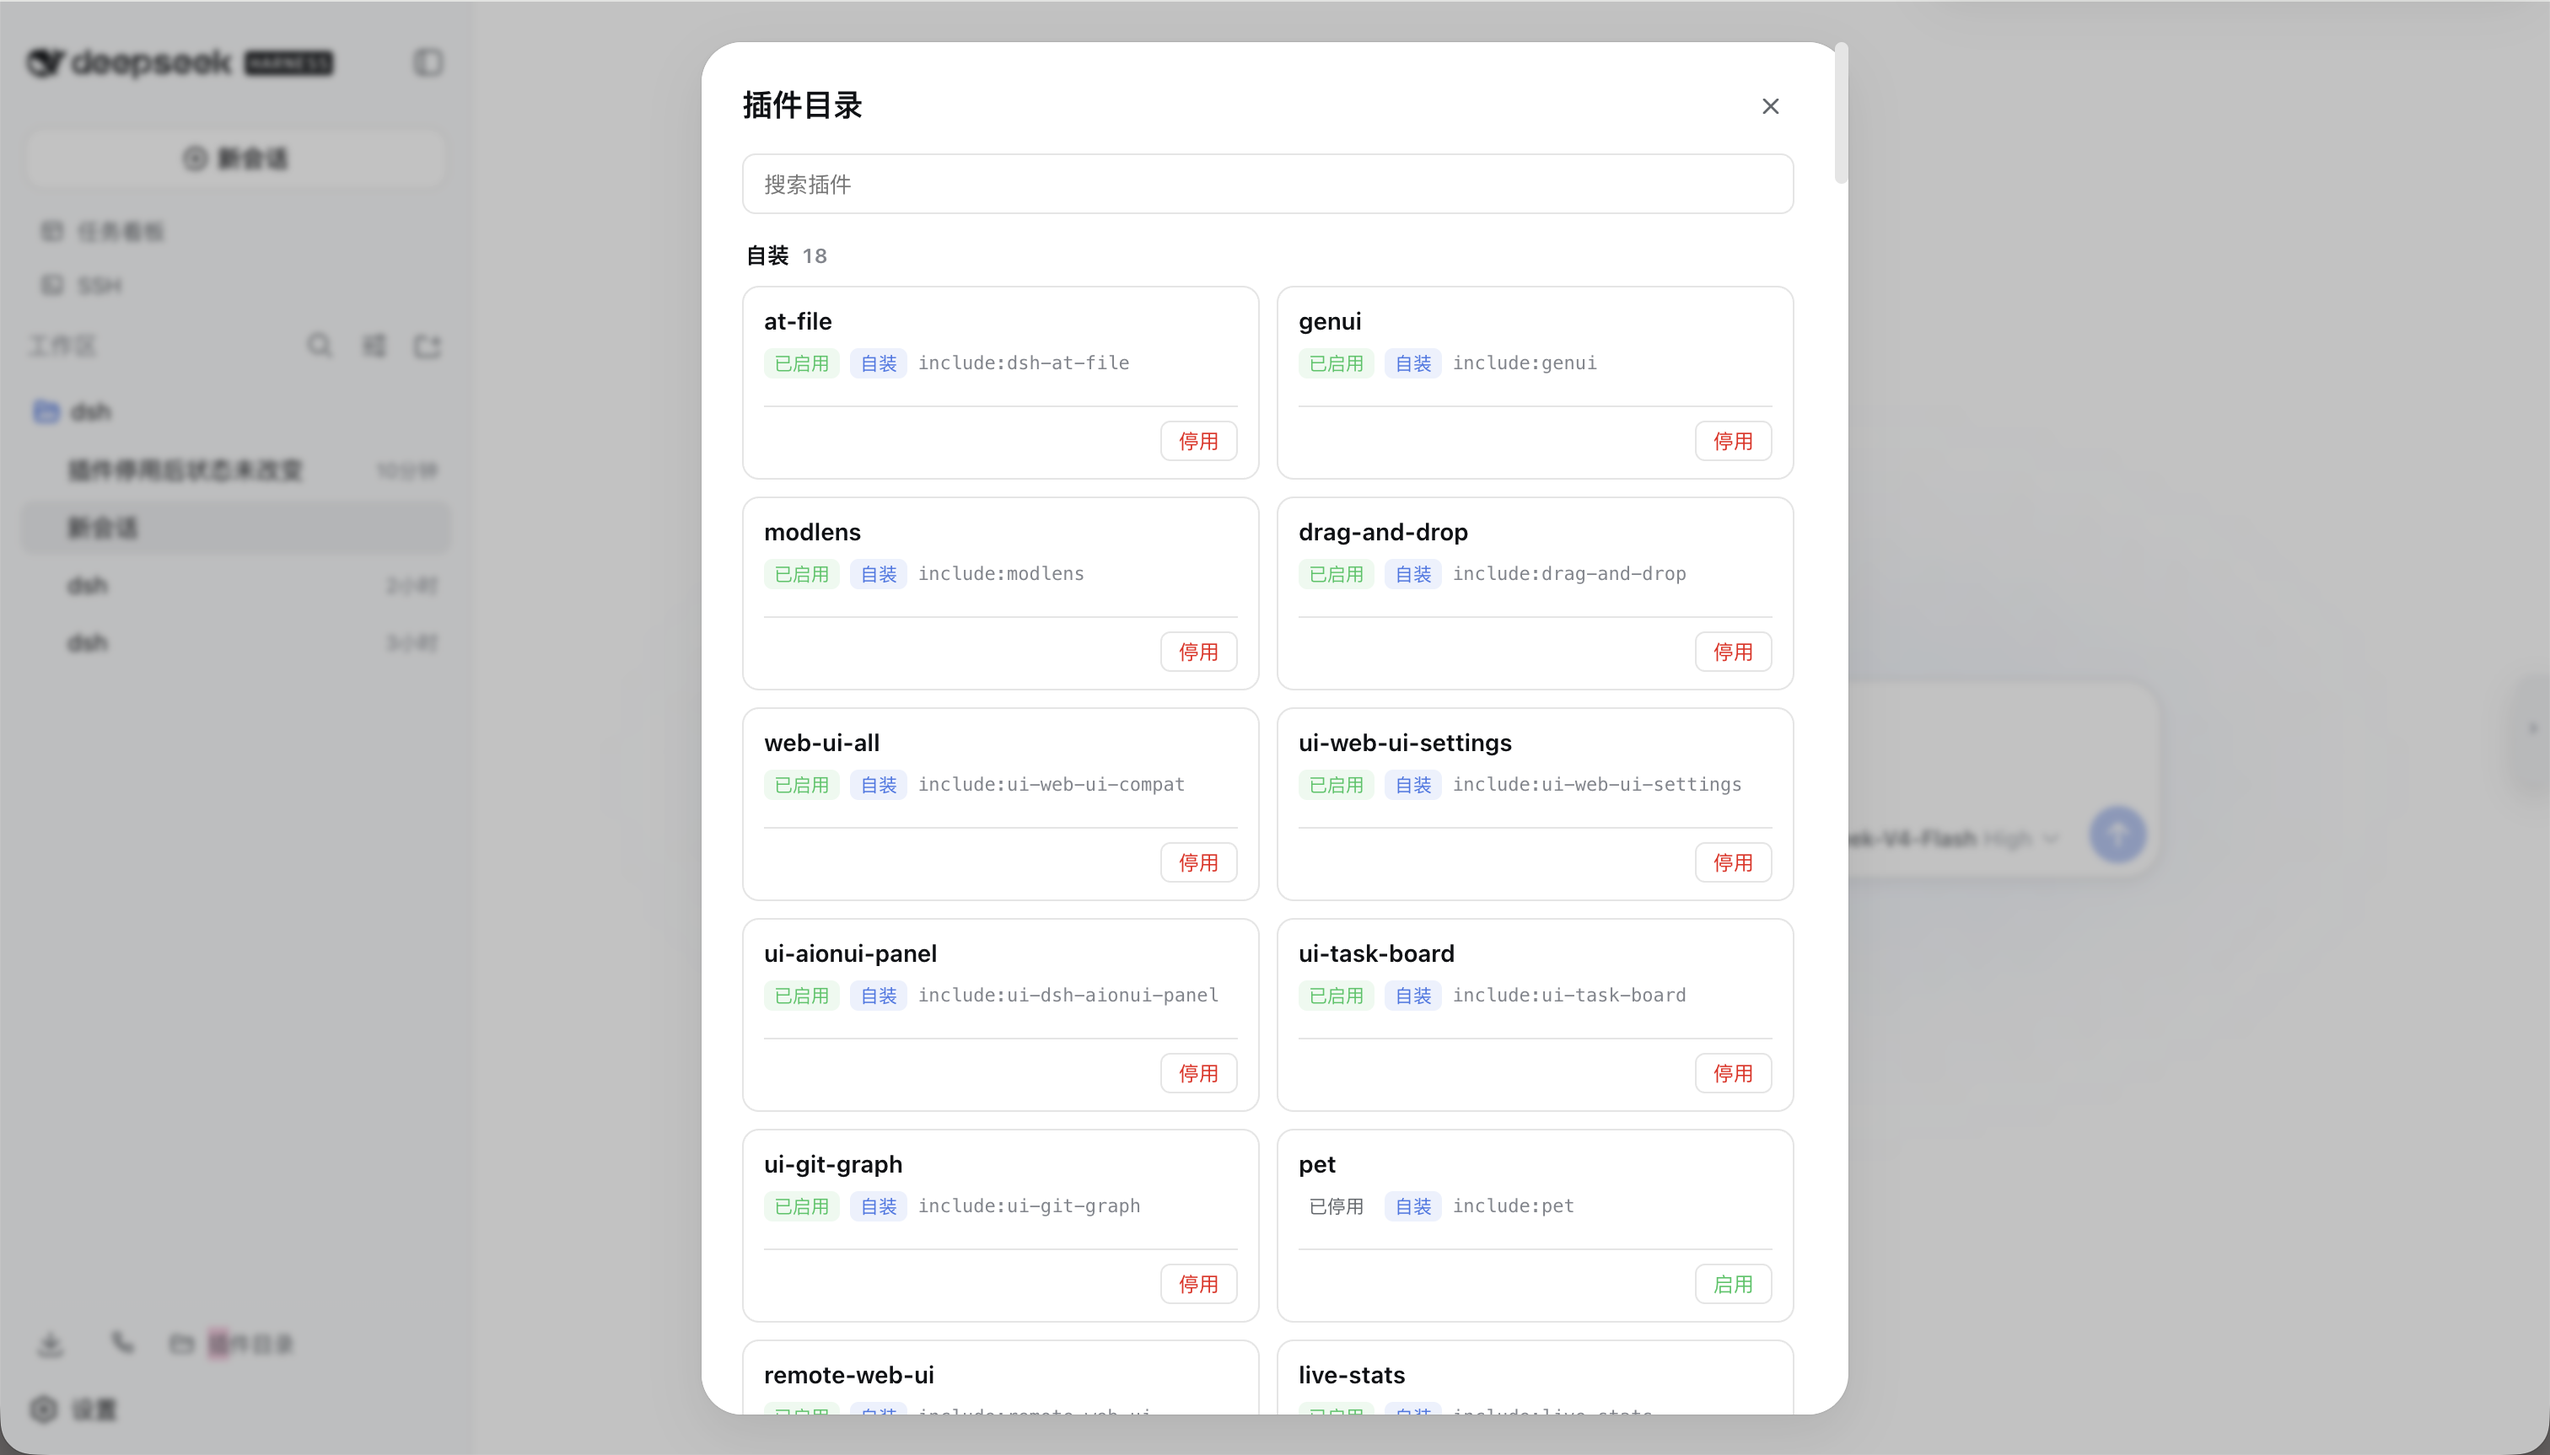
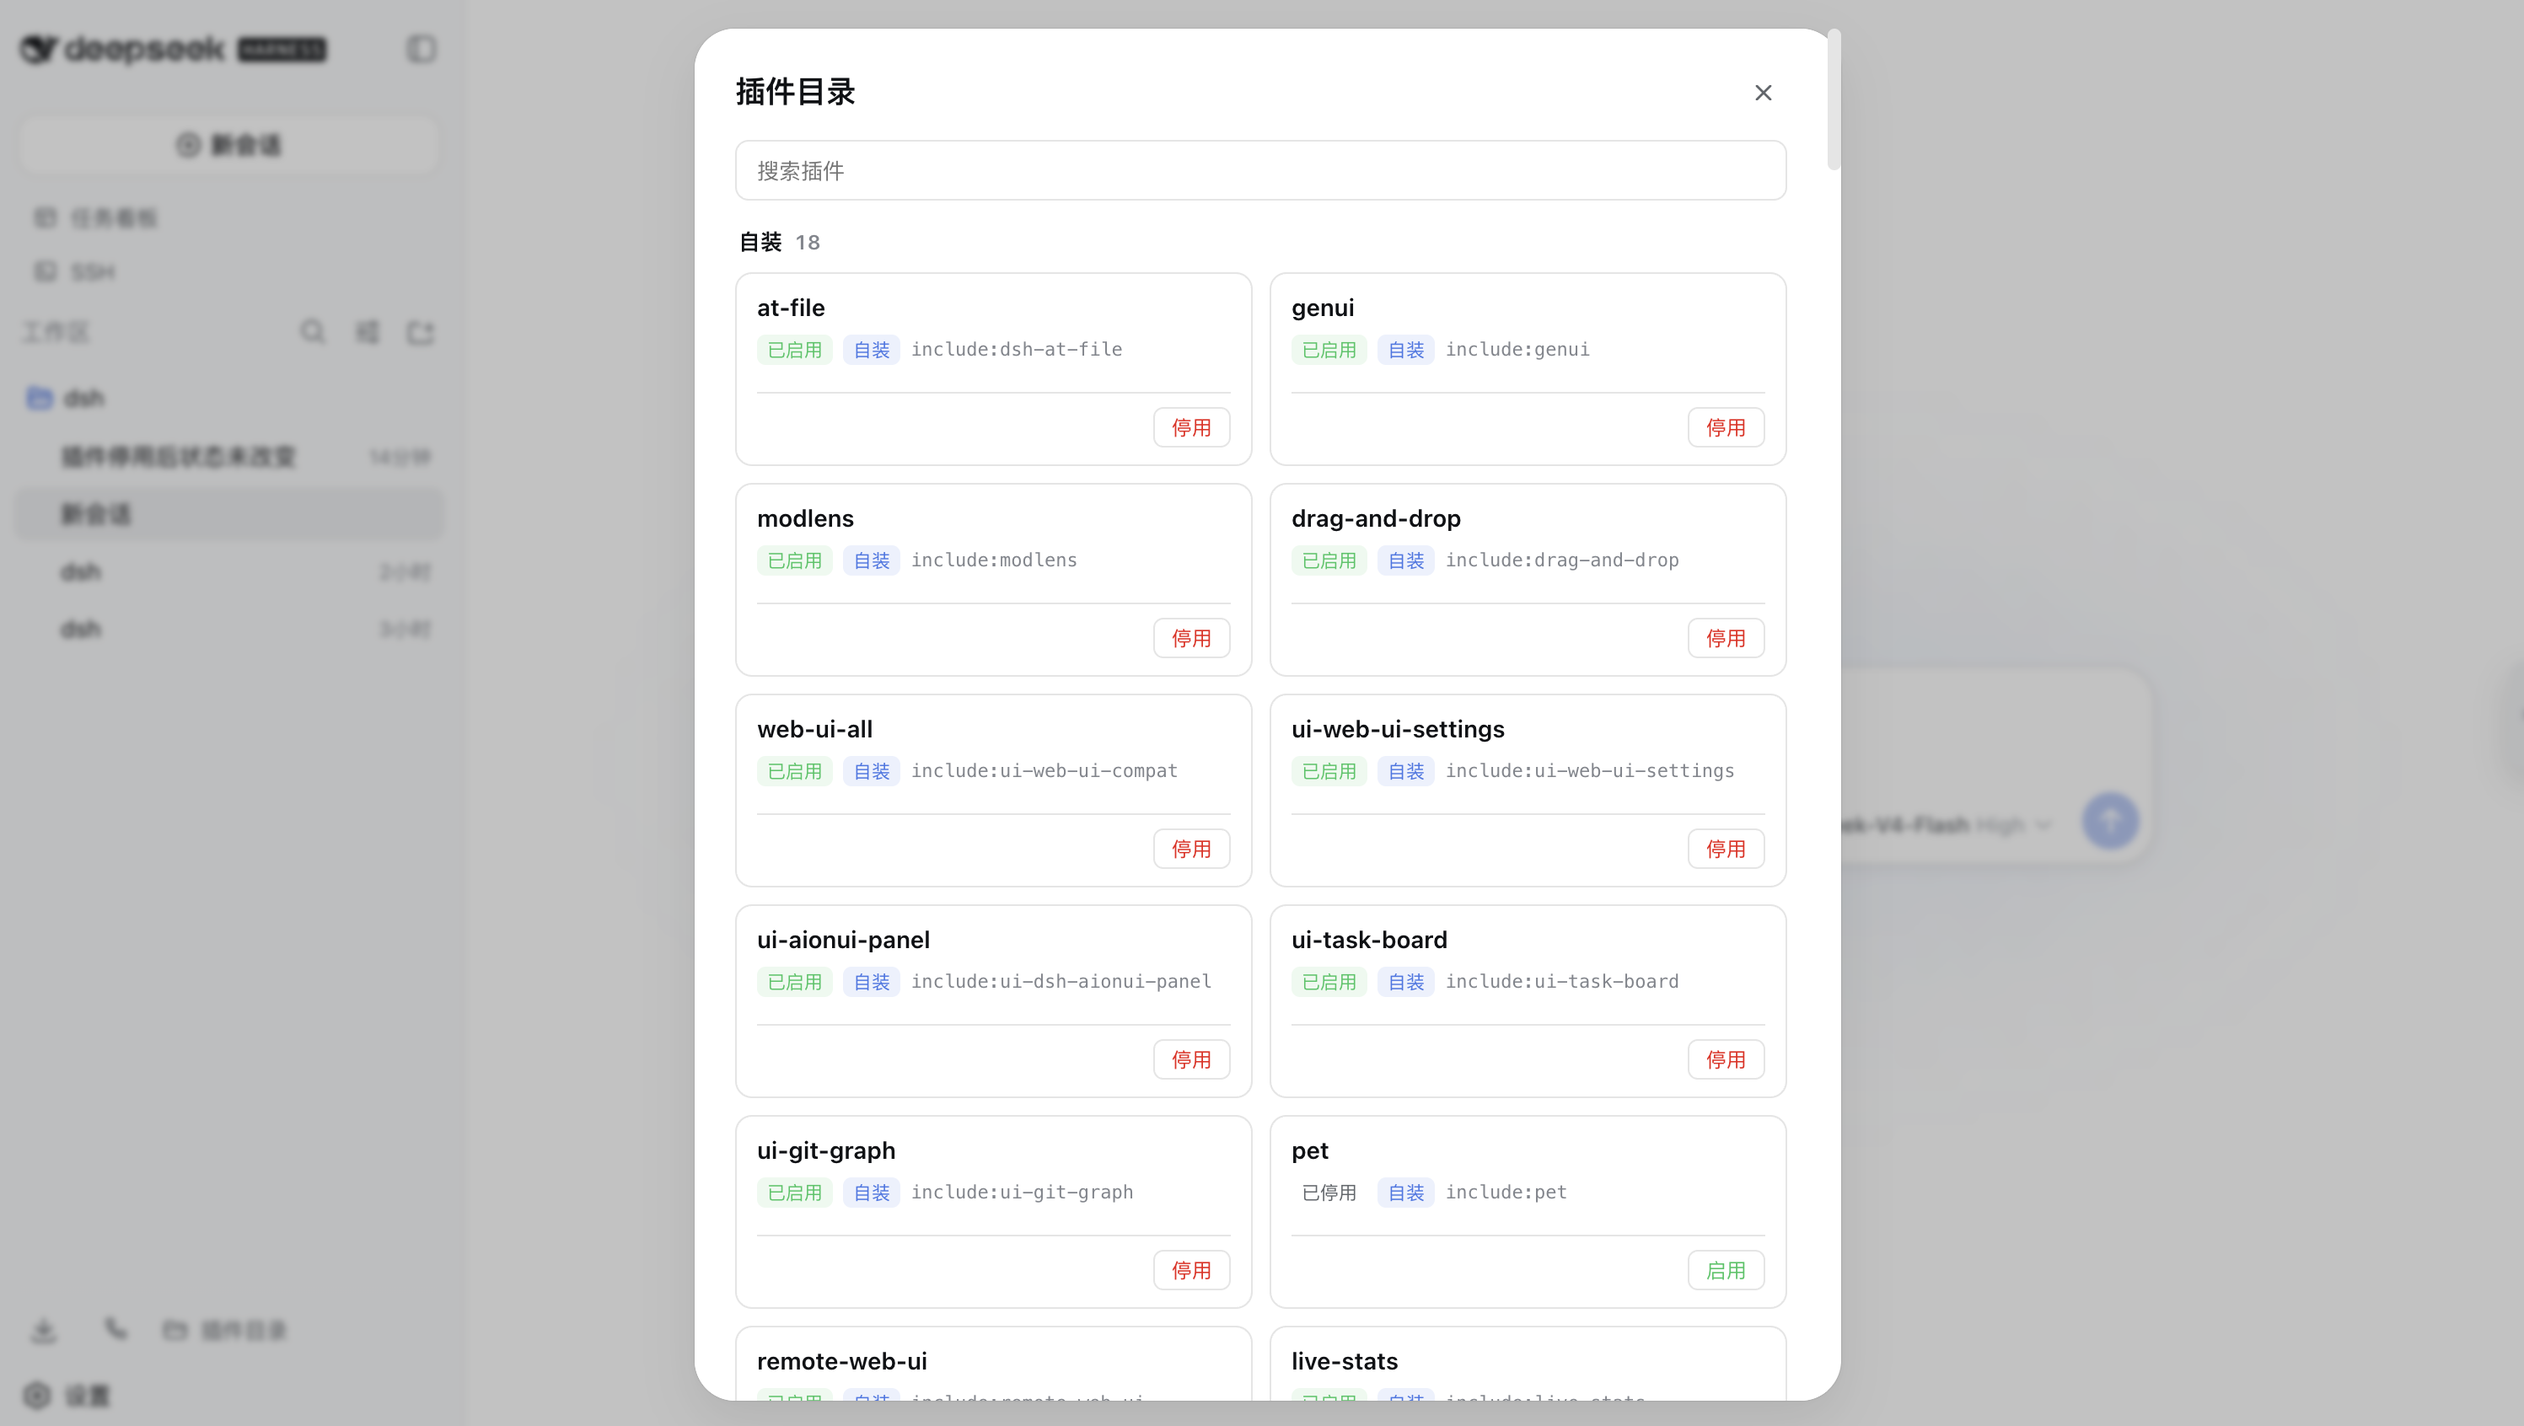
docs: use latest plugin catalog screenshot, add EN/ZH switcher

diff --git a/README.md b/README.md
@@ -1,5 +1,8 @@
 # dsh-plugin-Audit
 
+[![English](https://img.shields.io/badge/English-blue?style=flat-square)](README.md) [![简体中文](https://img.shields.io/badge/简体中文-red?style=flat-square)](README.zh.md)
+
+
 A [DeepSeek Harness](https://github.com/deepseek-ai/deepseek-harness) (DSH)
 plugin-management enhancement: group the plugin list by source so you can tell
 **official** plugins apart from the ones **you installed yourself** at a glance.

diff --git a/README.zh.md b/README.zh.md
@@ -1,5 +1,8 @@
 # dsh-plugin-Audit
 
+[![English](https://img.shields.io/badge/English-blue?style=flat-square)](README.md) [![简体中文](https://img.shields.io/badge/简体中文-red?style=flat-square)](README.zh.md)
+
+
 基于 [DeepSeek Harness](https://github.com/deepseek-ai/deepseek-harness)（DSH）的插件管理增强：按「来源」分组插件列表，一眼区分**官方自带插件**与**自装插件**。
 
 ## 特性
